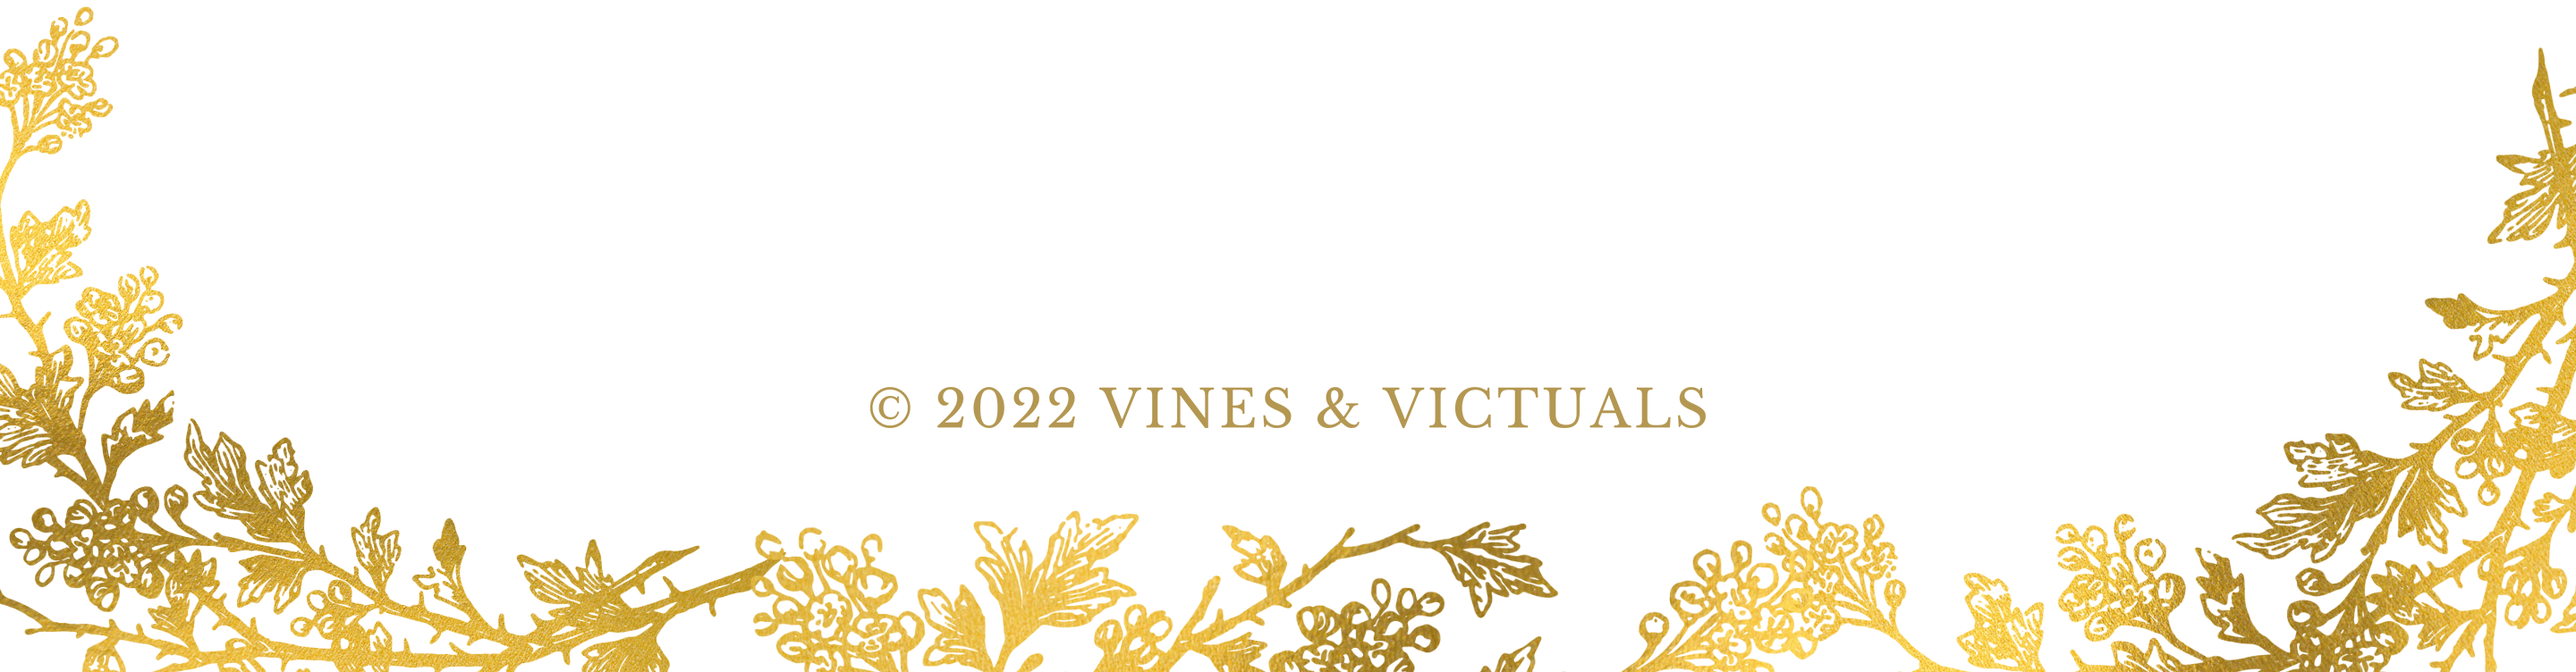
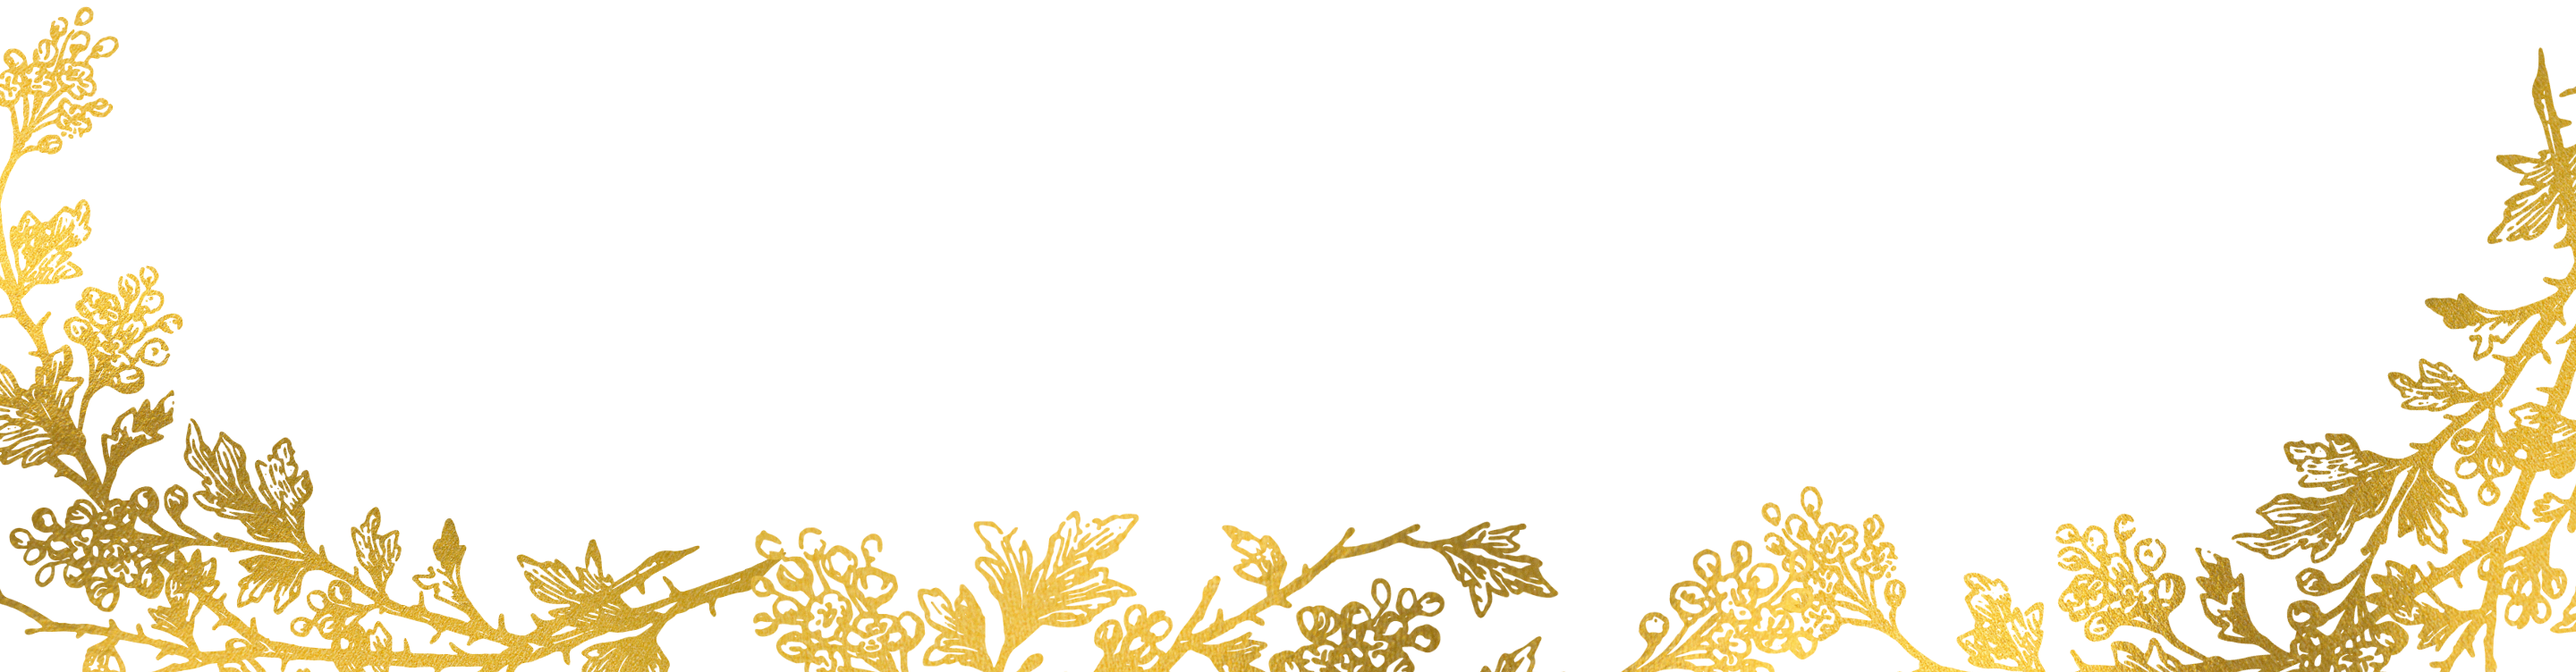
remove copyrght on single and result page

Changed region(s): [[0.3438, 0.5505, 0.6562, 0.6423]]

diff --git a/index.html b/index.html
@@ -180,7 +180,7 @@
     
       <figure class="image ">
         <div class="footertext">
-        <img id="goldBorder" src="assets/images/footerBorder.png">
+        <img id="goldBorder" src="assets/images/footerBorder1.png">
       </div>
 </figure>
     </footer>
